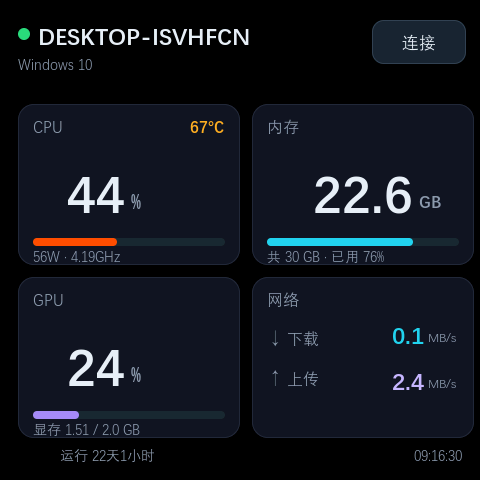
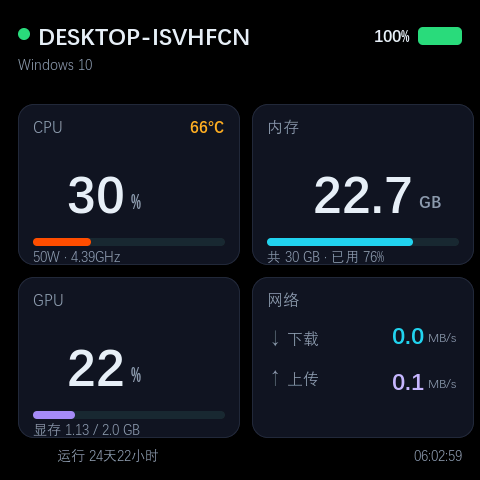
首页右上角改为设备电量显示，连接按钮移到设备信息页右上角
- ui/main.json：batt_text/batt_bar 取代首页的连接按钮，page_info 右上角新增连接按钮（178 objects）
- main：新增 pc_panel_set_battery()，main.c 每 15 秒轮询 BQ27220 电量计（仅变化时刷新/打日志）
- README 与上架描述同步更新；封面主图换成带电量显示的新截图

diff --git a/main/main.c b/main/main.c
@@ -110,6 +110,15 @@ typedef struct {
     int          detail_metric; /* metric of the open trend page */
     unsigned     sample_log_divider;
 
+    /* Device battery (BQ27220 on the shared I2C bus). -1 means "not readable
+     * yet"; the gauge is attached lazily so a board without a cell still boots
+     * and simply shows --. */
+    bool         battery_ok;
+    bool         battery_read_ok;
+    int          battery_percent;
+    int          ui_battery;    /* last value published to the UI (-2 = never) */
+    int64_t      battery_next_ms;
+
     /* Last values pushed to the UI. ESP-GSP setters enqueue work and may
      * allocate temporary storage, so unchanged state is not re-published. */
     bool         ui_link_online;
@@ -757,6 +766,49 @@ static void refresh(app_ctx_t *a)
     remember(pc_panel_set_page(a->ui, a->panel, PC_PANEL_PAGE_WAIT));
 }
 
+/* Poll the BQ27220 fuel gauge on the shared I2C bus. The first call attaches
+ * it; a failed attach or read keeps the previous value (or "--" when nothing
+ * has been read yet), so a board without a battery simply boots and shows --
+ * instead of holding up start-up. */
+#define APP_BATTERY_PERIOD_MS 15000
+
+static void poll_battery(app_ctx_t *a)
+{
+    const int64_t now_ms = esp_timer_get_time() / 1000;
+    if (now_ms < a->battery_next_ms) {
+        return;
+    }
+    a->battery_next_ms = now_ms + APP_BATTERY_PERIOD_MS;
+
+    int percent = a->battery_percent;
+    if (!a->battery_ok && bsp_battery_init() == ESP_OK) {
+        a->battery_ok = true;
+        ESP_LOGI(TAG, "battery gauge attached");
+    }
+    if (a->battery_ok) {
+        bsp_battery_status_t status;
+        const bool read_ok = bsp_battery_read(&status) == ESP_OK;
+        if (read_ok) {
+            if ((int)status.state_of_charge != percent) {
+                ESP_LOGI(TAG, "battery %u%% (%d mV, %d mA, %.1f C)",
+                         (unsigned)status.state_of_charge, status.voltage_mv,
+                         status.current_ma, status.temperature_c);
+            }
+            percent = status.state_of_charge;
+        } else if (a->battery_read_ok) {
+            /* Log the transition only: the retained log ring is small. */
+            ESP_LOGW(TAG, "battery read failed");
+        }
+        a->battery_read_ok = read_ok;
+    }
+
+    a->battery_percent = percent;
+    if (percent != a->ui_battery) {
+        remember(pc_panel_set_battery(a->ui, a->panel, percent));
+        a->ui_battery = percent;
+    }
+}
+
 static void app_task(void *arg)
 {
     app_ctx_t *a = arg;
@@ -827,6 +879,7 @@ static void app_task(void *arg)
         }
 
         heap_watch_poll();
+        poll_battery(a);
         vTaskDelay(pdMS_TO_TICKS(APP_TICK_MS));
     }
 }
@@ -838,6 +891,11 @@ void app_main(void)
     ESP_ERROR_CHECK_WITHOUT_ABORT(esp_iris_boot_probe());
     ESP_ERROR_CHECK(nvs_flash_init());
     iris_ota_support_start();
+
+    /* Battery is unknown until the first gauge poll; -2 forces that first push
+     * even when the gauge reports 0 %. */
+    s_app.battery_percent = -1;
+    s_app.ui_battery = -2;
 
     /*
      * The IMU is brought up before the display: bsp_imu_init() re-asserts the

diff --git a/main/pc_panel_ui.c b/main/pc_panel_ui.c
@@ -444,6 +444,29 @@ esp_gsp_err_t pc_panel_set_host(esp_gsp_handle_t ui, pc_panel_t *panel,
     return err;
 }
 
+esp_gsp_err_t pc_panel_set_battery(esp_gsp_handle_t ui, pc_panel_t *panel,
+                                   int percent)
+{
+    if (!ui || !panel) {
+        return ESP_GSP_ERR_INVALID_ARG;
+    }
+    char text[8];
+    if (percent < 0) {
+        snprintf(text, sizeof(text), "--");
+        percent = 0;
+    } else {
+        if (percent > 100) {
+            percent = 100;
+        }
+        snprintf(text, sizeof(text), "%d%%", percent);
+    }
+    esp_gsp_err_t err = put_text(ui, GSP_PC_BIND_BATT_TEXT, text);
+    if (err == ESP_GSP_OK) {
+        err = put_value(ui, GSP_PC_OBJ_KEY_BATT_BAR, percent);
+    }
+    return err;
+}
+
 esp_gsp_err_t pc_panel_update(esp_gsp_handle_t ui, pc_panel_t *panel,
                               const pc_sample_t *sample)
 {

diff --git a/main/pc_panel_ui.h b/main/pc_panel_ui.h
@@ -163,6 +163,14 @@ esp_gsp_err_t pc_panel_set_host(esp_gsp_handle_t ui, pc_panel_t *panel,
                                 const char *name, const char *subtitle);
 
 /**
+ * Show the device's own battery level in the dashboard header.
+ * @p percent is 0..100; a negative value means "not readable yet" and renders
+ * as @c -- with an empty bar.
+ */
+esp_gsp_err_t pc_panel_set_battery(esp_gsp_handle_t ui, pc_panel_t *panel,
+                                   int percent);
+
+/**
  * Name of the step that last failed inside this module, or "" when the last
  * call succeeded. Lets the (non-portable) caller log the failure without this
  * file depending on a logging stack.

diff --git a/mosaico-ideas.md b/mosaico-ideas.md
@@ -25,6 +25,8 @@
 - **触摸配网**：第一次开机在屏幕上选 2.4G 网络、用软键盘输入密码，凭据保存在设备里，断电不丢。
   Wi-Fi 列表里会标出已连接的网络与信号强度。
 - **自动转屏**：按重力方向自动旋转，横放竖放都合适。
+- **设备电量**：首页右上角显示**设备自己**的电量百分比 + 电量条（板载电量计读取，读不到时显示 `--`）。
+- **连接入口**：在「**设备信息**」页右上角 —— 点它进入配网 / 切换 Wi-Fi。
 - **时钟与运行时长**：顶部显示电脑名与系统，右下角显示时钟（时间由电脑下发校准，不需要板载 RTC）。
 
 ![连接无线网络](design/wifi_page.png)
@@ -49,7 +51,8 @@
 
 ## 快速上手
 
-1. **给设备联网**：设备开机若未联网会进入配网页 —— 选择 2.4G Wi-Fi、输入密码。
+1. **给设备联网**：设备开机若未联网会进入配网页 —— 选择 2.4G Wi-Fi、输入密码。已经连过网想换网络：
+   在「设备信息」页点右上角「连接」（首页右上角显示的是设备电量，不占按钮）。
 2. **在电脑上运行客户端**：填入设备屏幕上显示的 IP（端口默认 `33340`），点「开始上报」。
 3. **配对**：客户端窗口里有一个 4 位配对码；设备屏幕上点「匹配」，用数字键盘输入这 4 位码。
    配对成功后设备只显示这台电脑的数据，同一网段有多台电脑也不会串台。想换电脑时，在设备信息页

diff --git a/README.md b/README.md
@@ -51,7 +51,8 @@ python agent/run_gui.bat         # 或 python agent/pc_status_gui.py
 
 | 功能 | 说明 |
 |---|---|
-| 状态面板 | CPU（含温度/功率/频率）、内存、GPU（占用 + 显存 + 温度）、网络上下行、运行时长、时钟 |
+| 状态面板 | CPU（含温度/功率/频率）、内存、GPU（占用 + 显存 + 温度）、网络上下行、运行时长、时钟；**首页右上角显示设备自身电量**（板载 BQ27220 电量计，读不到显示 `--`） |
+| 连接入口 | 在**设备信息页右上角**的「连接」按钮（首页右上角改为电量显示） |
 | 详情页 | 点 CPU / 内存 / GPU / 网络卡片进入：顶部实时读数，下方**两张折线图**，含最低最高统计 |
 | 设备识别 | 设备收到状态包后回一个**身份小包**，PC 端因此显示「已连接设备：PC 状态面板」（名称/型号/固件/设备 IP）；这也是真实的连接指示 —— 收到回执才算通 |
 | 设备配对 | 两段式：Wi-Fi 连上后显示「连接电脑」引导页（提示打开 PC 客户端 + 「匹配」按钮）→ 点「匹配」进入**数字键盘**输入电脑上显示的 4 位配对码 → 绑定。设备端记录 **码 + 对方地址/主机名**（NVS 持久化），只显示已配对那台电脑的数据；信息页「重新配对」直接进配对码页 |

diff --git a/docs/mosaico-ideas-release.md b/docs/mosaico-ideas-release.md
@@ -206,6 +206,17 @@ python mosaico.py project upload \
 
 **没有做：** 没有登录 Mosaico Ideas、没有上传、没有下载/擦写设备、没有提交审核、没有改任何生产配置。
 
+**2026-10-19 追加：**
+
+- **界面调整**：首页右上角改为**设备电量**（板载 BQ27220 电量计，15 秒轮询、仅变化时刷新；读不到显示 `--`），
+  「连接」按钮移到**设备信息页右上角**。场景自检 `178 objects / page_info children 30` 通过，
+  已 `system-update` 装到设备并用截图确认（100%，4189 mV / 0 mA / 30.4 °C，即电池是满的），
+  封面主图 `design/dash_gpu.png` 已换上带电量显示的新截图。
+- **主机环境修复（很重要）**：运行 `mosaico.py` 的 Python 缺少 `pyserial`，导致 ROM 恢复通道
+  检测不到设备（报 `No ESP-Mosaico ROM Download Mode interface was detected`）。`pip install pyserial`
+  后恢复可用；设备已用 `recover` 从 ROM 下载模式救回（底座固件 0.1.4），NVS 里的 Wi-Fi 凭据与
+  配对信息都保留（面板照常收到这台电脑的数据），随后用 `system-update` 安装本应用。
+
 ---
 
 ## 8. Windows 客户端 exe 包（下载分发）
